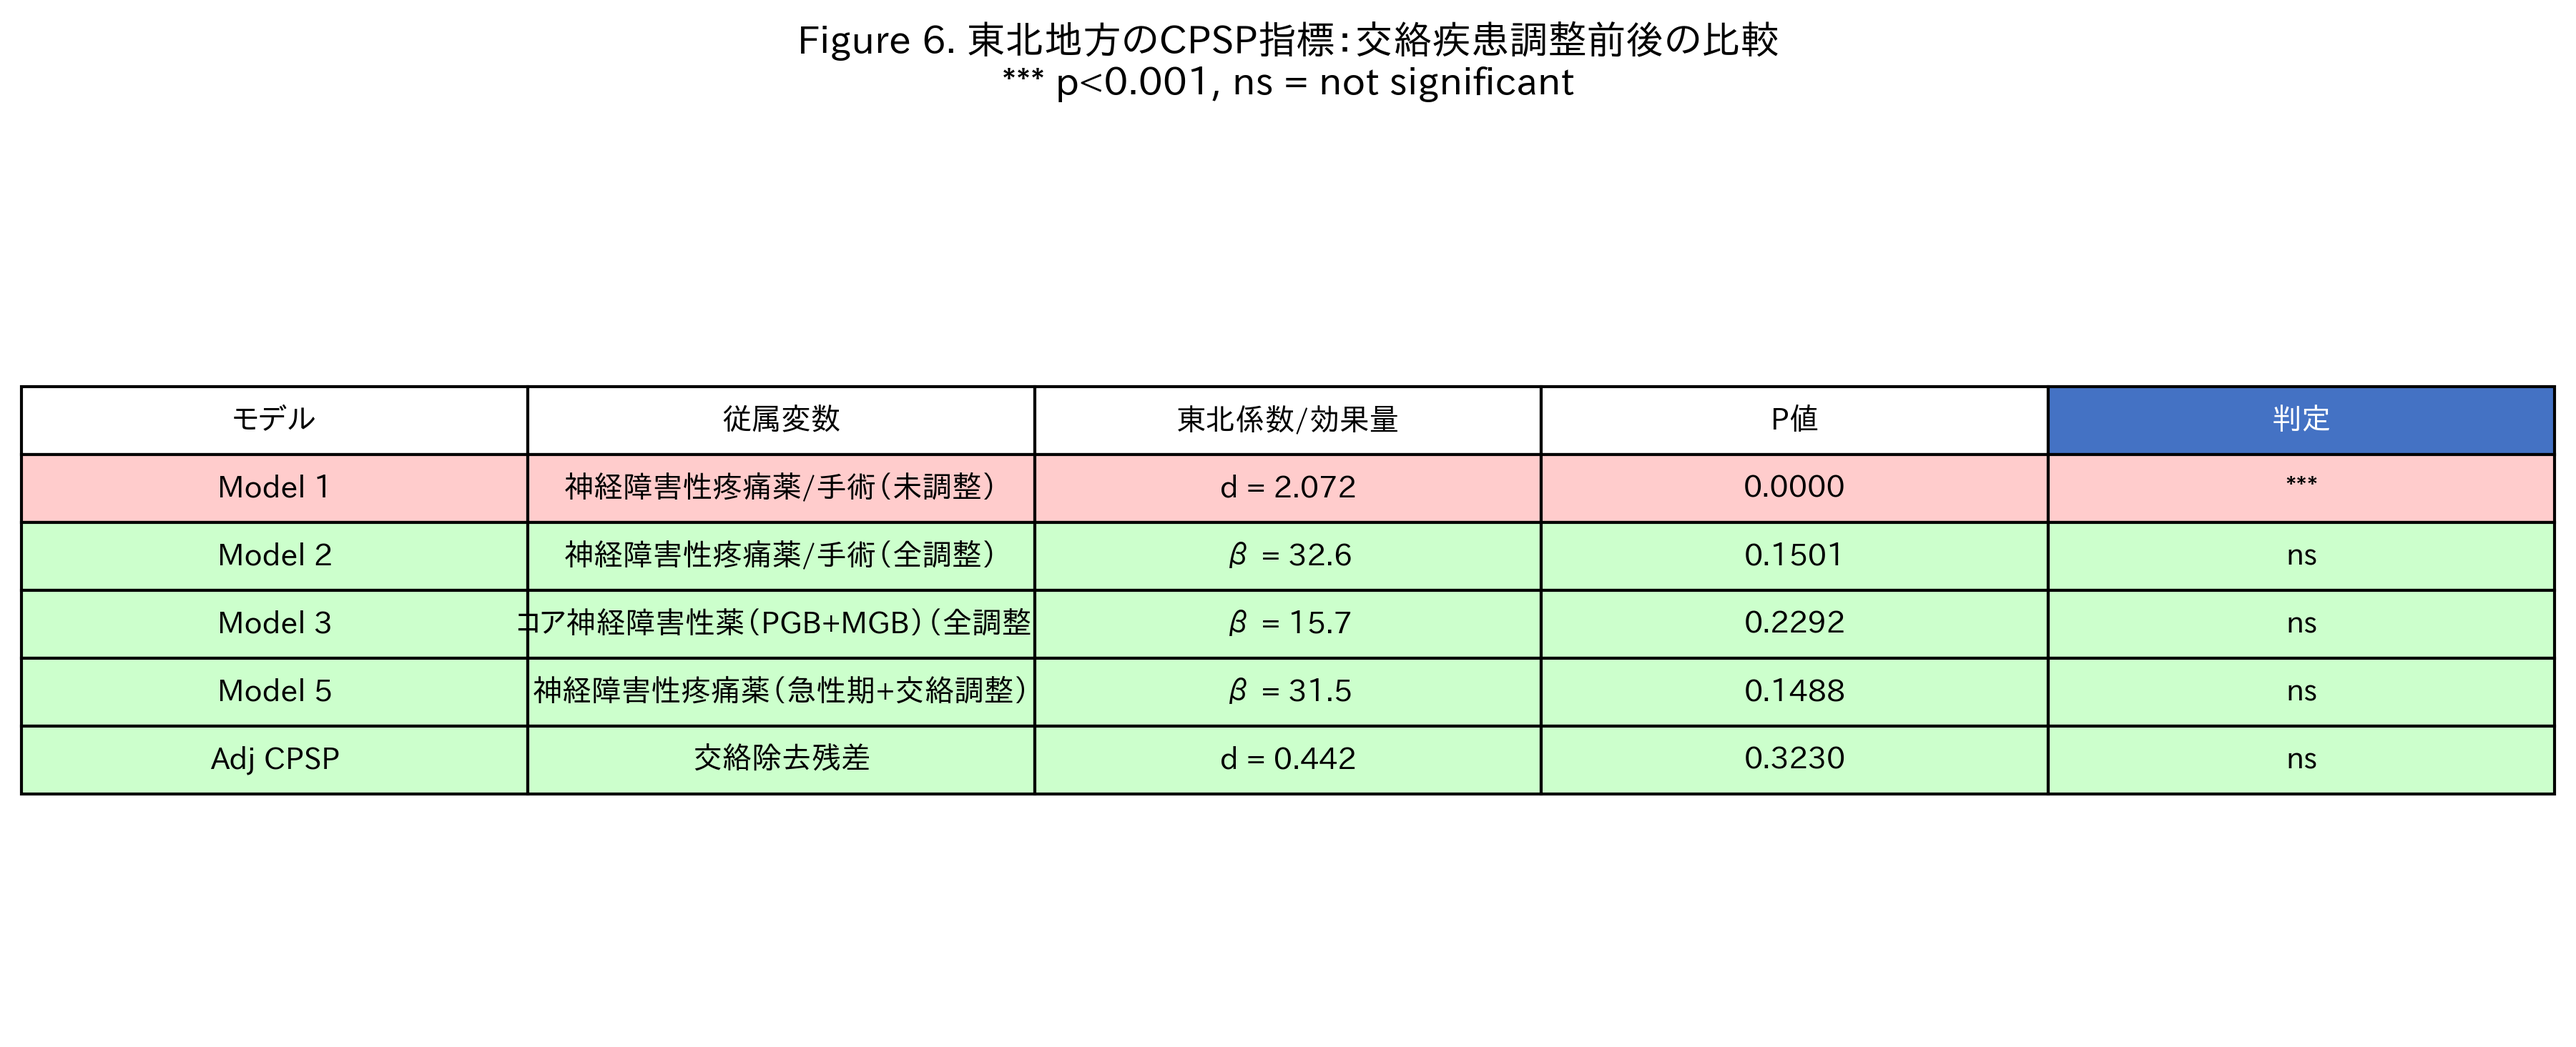
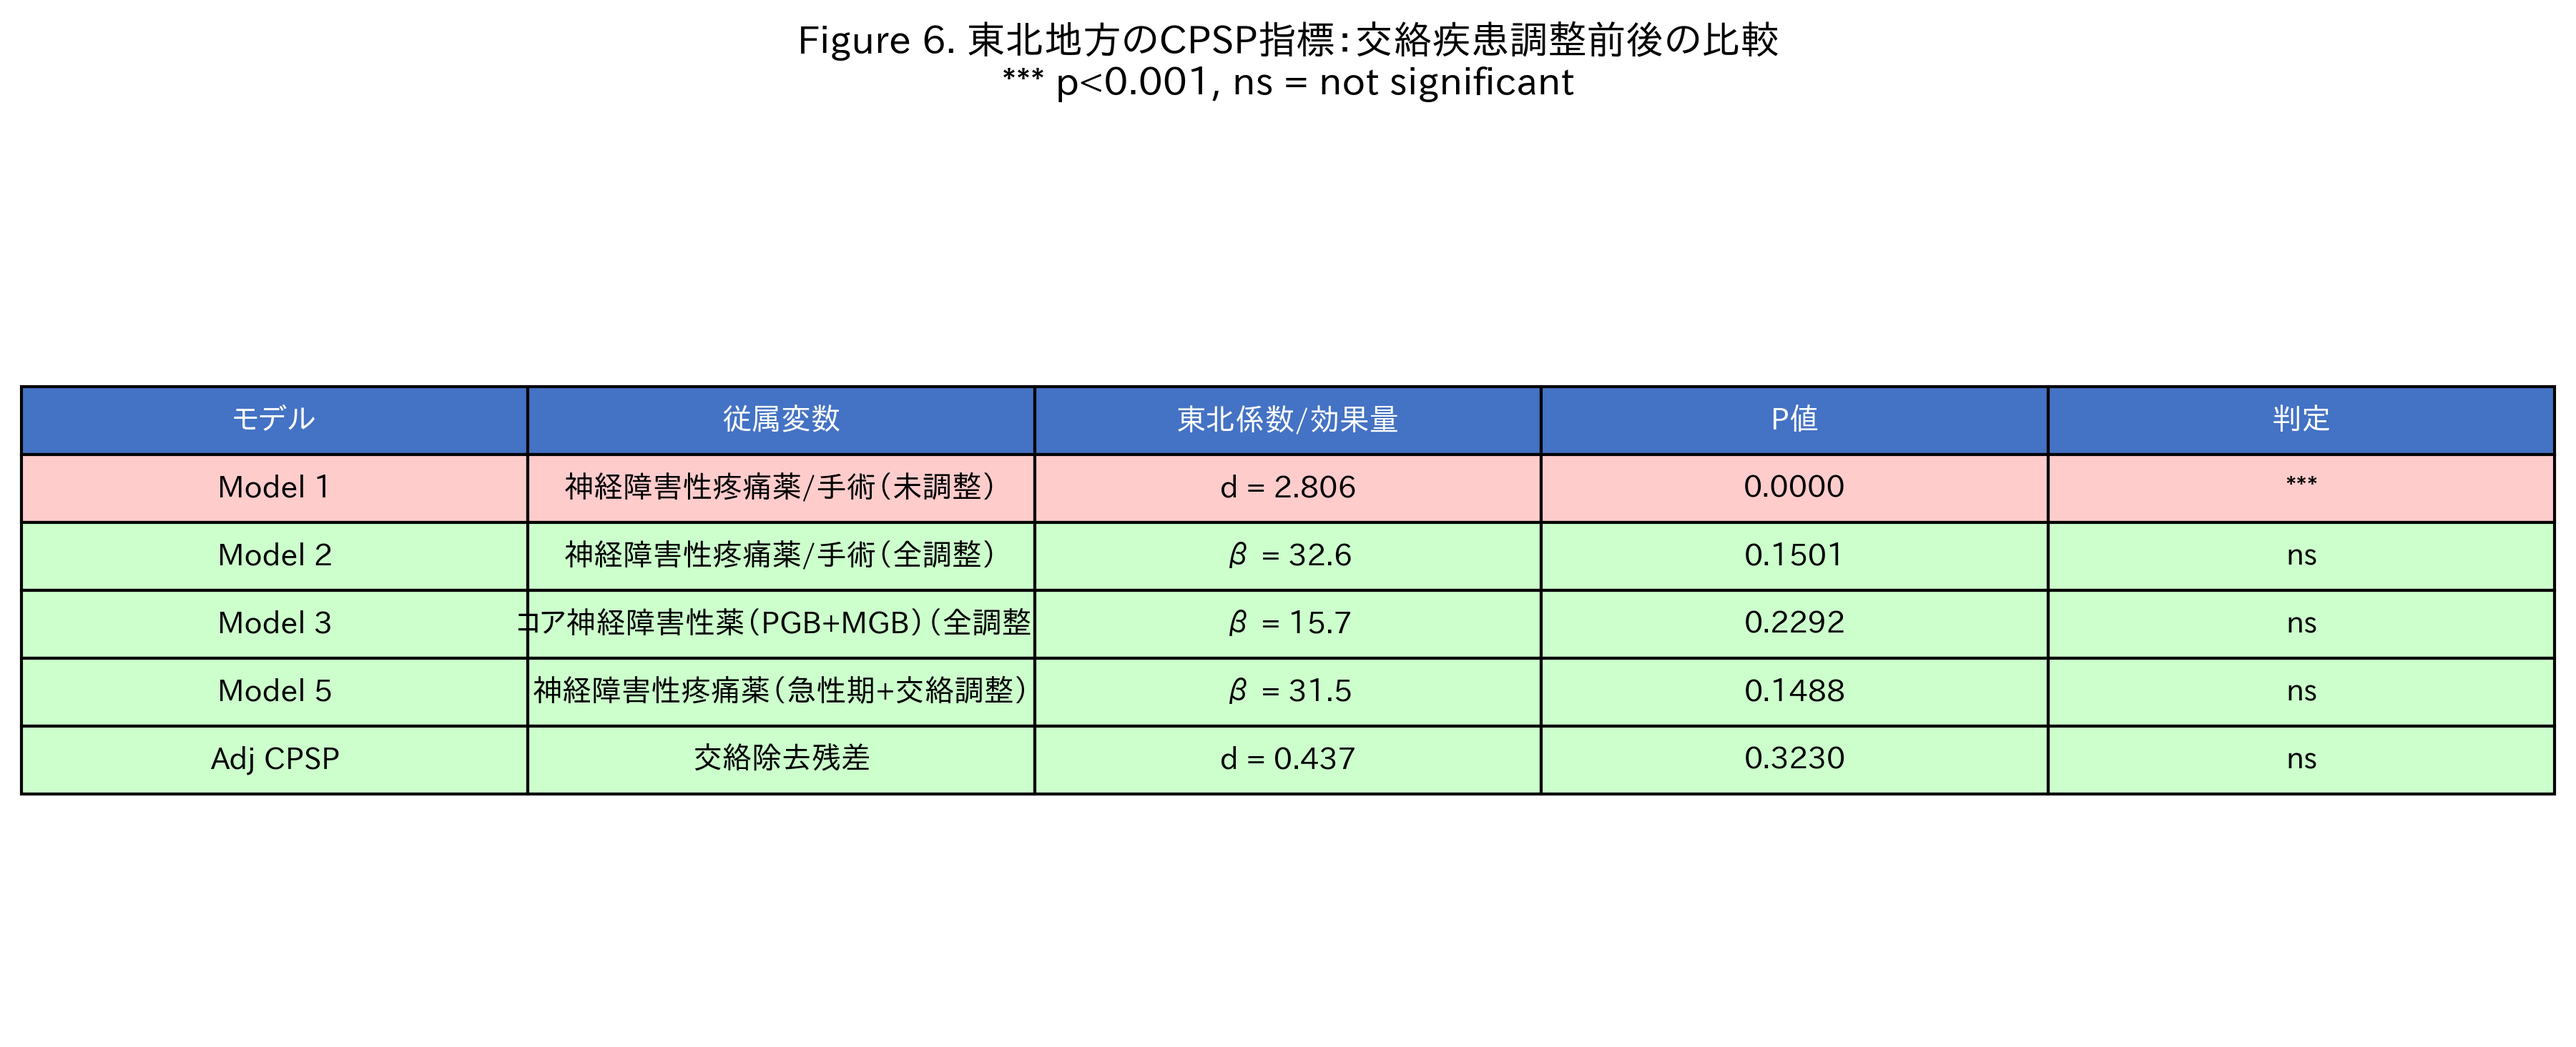
Fix Cohen's d calculation (use pooled SD) and Figure 6 header coloring bug
- cpsp_integrated_analysis.py: Replace total population SD with pooled
  within-group SD for Cohen's d at lines 357 and 419, consistent with
  analyze_ndb.py implementation
- cpsp_figures.py: Fix indentation so all 5 header columns in Figure 6
  table get blue background + white text, not just the last column
- Regenerated cpsp_regression_summary.json and fig6 with corrected values

Changed region(s): [[0.0, 0.3686, 0.8084, 0.4915], [0.4975, 0.7065, 0.5286, 0.7372]]

diff --git a/ndb-pain-regional-variation-japan/scripts/cpsp_integrated_analysis.py b/ndb-pain-regional-variation-japan/scripts/cpsp_integrated_analysis.py
@@ -354,7 +354,11 @@ print(f"  Non-Tohoku mean = {np.mean(Y_neuro[is_tohoku==0]):.1f}")
 # T-test Tohoku vs others
 from scipy import stats
 t_unadj, p_unadj = stats.ttest_ind(Y_neuro[is_tohoku==1], Y_neuro[is_tohoku==0])
-d_unadj = (np.mean(Y_neuro[is_tohoku==1]) - np.mean(Y_neuro[is_tohoku==0])) / np.std(Y_neuro)
+# Pooled within-group SD for Cohen's d
+_tohoku_vals = Y_neuro[is_tohoku==1]
+_rest_vals = Y_neuro[is_tohoku==0]
+_pooled_std = np.sqrt(((len(_tohoku_vals)-1)*np.var(_tohoku_vals, ddof=1) + (len(_rest_vals)-1)*np.var(_rest_vals, ddof=1)) / (len(_tohoku_vals)+len(_rest_vals)-2))
+d_unadj = (np.mean(_tohoku_vals) - np.mean(_rest_vals)) / _pooled_std
 print(f"  T-test: t={t_unadj:.3f}, p={p_unadj:.4f}, Cohen's d={d_unadj:.3f}")
 
 # --- Model 2: Adjusted for confounders ---
@@ -416,7 +420,11 @@ for region in sorted(region_adj.keys(), key=lambda x: np.mean(region_adj[x])):
 print(f"\n  Tohoku adjusted mean: {np.mean(adjusted_cpsp[is_tohoku==1]):+.1f}")
 print(f"  Non-Tohoku adjusted mean: {np.mean(adjusted_cpsp[is_tohoku==0]):+.1f}")
 t_adj, p_adj = stats.ttest_ind(adjusted_cpsp[is_tohoku==1], adjusted_cpsp[is_tohoku==0])
-d_adj = (np.mean(adjusted_cpsp[is_tohoku==1]) - np.mean(adjusted_cpsp[is_tohoku==0])) / np.std(adjusted_cpsp)
+# Pooled within-group SD for Cohen's d
+_tohoku_adj = adjusted_cpsp[is_tohoku==1]
+_rest_adj = adjusted_cpsp[is_tohoku==0]
+_pooled_std_adj = np.sqrt(((len(_tohoku_adj)-1)*np.var(_tohoku_adj, ddof=1) + (len(_rest_adj)-1)*np.var(_rest_adj, ddof=1)) / (len(_tohoku_adj)+len(_rest_adj)-2))
+d_adj = (np.mean(_tohoku_adj) - np.mean(_rest_adj)) / _pooled_std_adj
 print(f"  T-test (adjusted): t={t_adj:.3f}, p={p_adj:.4f}, Cohen's d={d_adj:.3f}")
 
 # ============================================================

diff --git a/ndb-pain-regional-variation-japan/scripts/cpsp_figures.py b/ndb-pain-regional-variation-japan/scripts/cpsp_figures.py
@@ -321,8 +321,9 @@ for i in range(len(table_data)-1):
         else:
             cell.set_facecolor('#ccffcc')
     # Header
-    table[0, j].set_facecolor('#4472C4')
-    table[0, j].set_text_props(color='white', fontweight='bold')
+    for j in range(len(table_data[0])):
+        table[0, j].set_facecolor('#4472C4')
+        table[0, j].set_text_props(color='white', fontweight='bold')
 
 ax.set_title('Figure 6. 東北地方のCPSP指標：交絡疾患調整前後の比較\n*** p<0.001, ns = not significant', 
              fontsize=13, fontweight='bold', pad=20)
